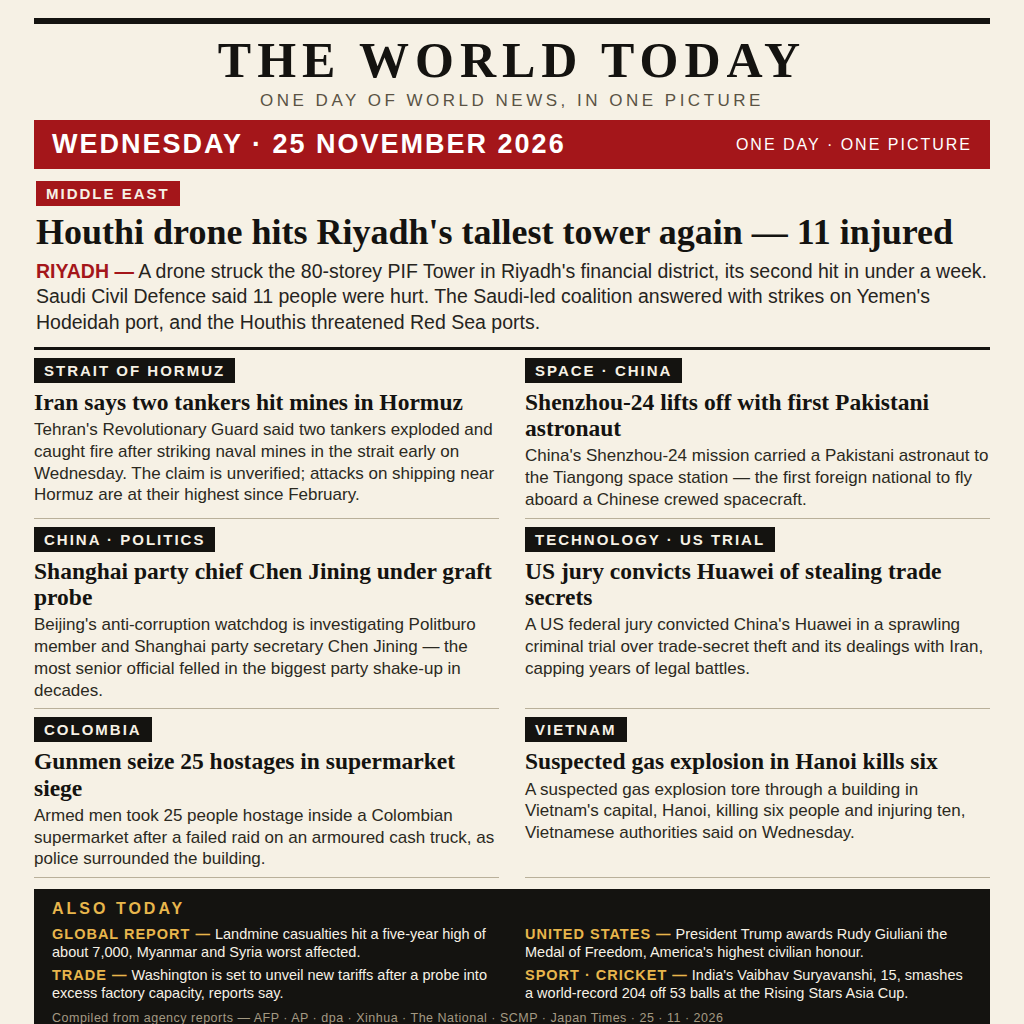
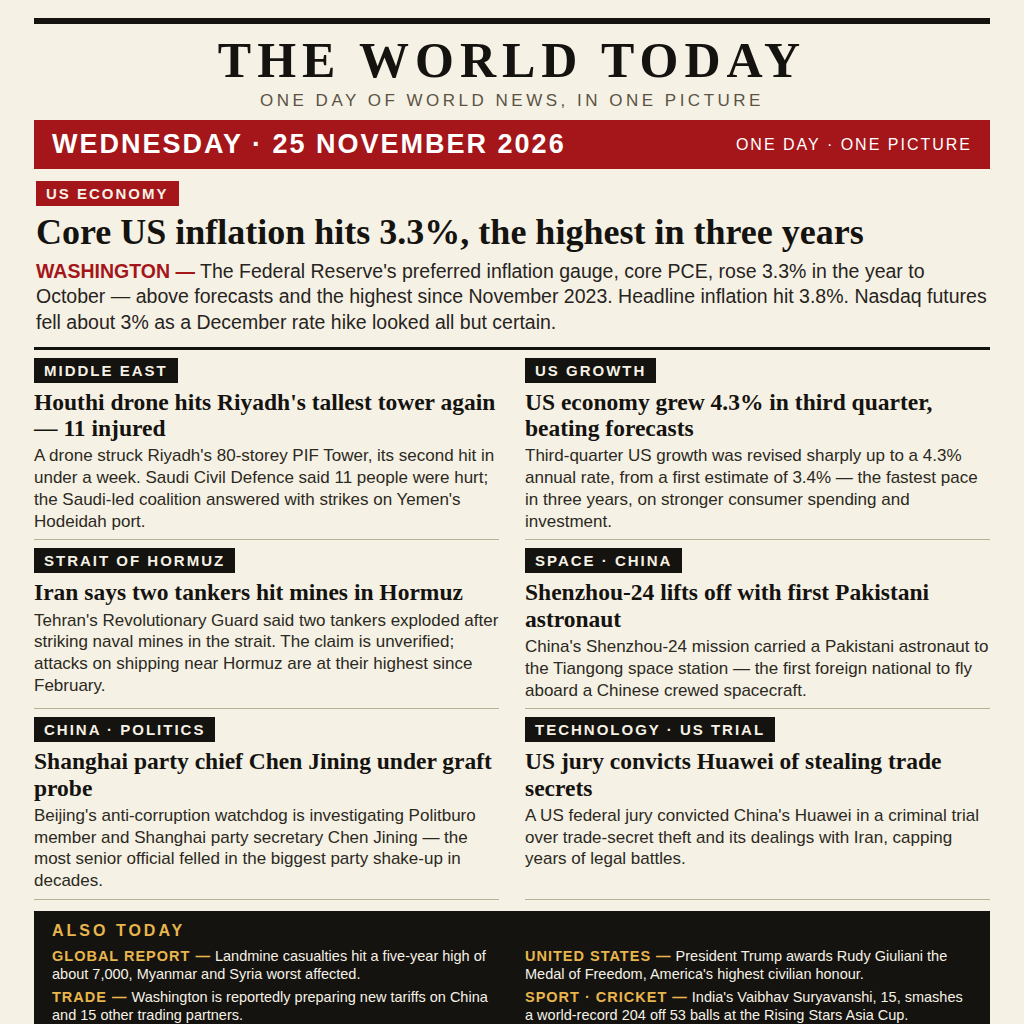
Refresh 25 Nov edition with post-PCE news: core PCE 3.3% YoY lead with market reaction, add Q3 GDP revised to 4.3% card, demote Riyadh strike to card, sharpen tariffs brief; drop Colombia/Hanoi cards

Changed region(s): [[0.0312, 0.1875, 0.9688, 1.0]]

diff --git a/page.html b/page.html
@@ -38,10 +38,10 @@ body { width:1024px; height:1024px; overflow:hidden; background:#f6f1e5;
     <div class="tagline">One day of world news, in one picture</div></div>
   <div class="dateband"><div class="date">WEDNESDAY · 25 NOVEMBER 2026</div>
     <div class="side">One day · One picture</div></div>
-  <div class="lead"><span class="chip red">MIDDLE EAST</span>
-    <h2>Houthi drone hits Riyadh's tallest tower again — 11 injured</h2>
-    <p><span class="place">RIYADH —</span> A drone struck the 80-storey PIF Tower in Riyadh's financial district, its second hit in under a week. Saudi Civil Defence said 11 people were hurt. The Saudi-led coalition answered with strikes on Yemen's Hodeidah port, and the Houthis threatened Red Sea ports.</p></div>
-  <div class="grid"><div class="card"><span class="chip">STRAIT OF HORMUZ</span><h3>Iran says two tankers hit mines in Hormuz</h3><p>Tehran's Revolutionary Guard said two tankers exploded and caught fire after striking naval mines in the strait early on Wednesday. The claim is unverified; attacks on shipping near Hormuz are at their highest since February.</p></div><div class="card"><span class="chip">SPACE · CHINA</span><h3>Shenzhou-24 lifts off with first Pakistani astronaut</h3><p>China's Shenzhou-24 mission carried a Pakistani astronaut to the Tiangong space station — the first foreign national to fly aboard a Chinese crewed spacecraft.</p></div><div class="card"><span class="chip">CHINA · POLITICS</span><h3>Shanghai party chief Chen Jining under graft probe</h3><p>Beijing's anti-corruption watchdog is investigating Politburo member and Shanghai party secretary Chen Jining — the most senior official felled in the biggest party shake-up in decades.</p></div><div class="card"><span class="chip">TECHNOLOGY · US TRIAL</span><h3>US jury convicts Huawei of stealing trade secrets</h3><p>A US federal jury convicted China's Huawei in a sprawling criminal trial over trade-secret theft and its dealings with Iran, capping years of legal battles.</p></div><div class="card"><span class="chip">COLOMBIA</span><h3>Gunmen seize 25 hostages in supermarket siege</h3><p>Armed men took 25 people hostage inside a Colombian supermarket after a failed raid on an armoured cash truck, as police surrounded the building.</p></div><div class="card"><span class="chip">VIETNAM</span><h3>Suspected gas explosion in Hanoi kills six</h3><p>A suspected gas explosion tore through a building in Vietnam's capital, Hanoi, killing six people and injuring ten, Vietnamese authorities said on Wednesday.</p></div></div>
-  <div class="briefs"><h4>ALSO TODAY</h4><div class="bgrid"><div class="brief"><b>GLOBAL REPORT —</b> Landmine casualties hit a five-year high of about 7,000, Myanmar and Syria worst affected.</div><div class="brief"><b>UNITED STATES —</b> President Trump awards Rudy Giuliani the Medal of Freedom, America's highest civilian honour.</div><div class="brief"><b>TRADE —</b> Washington is set to unveil new tariffs after a probe into excess factory capacity, reports say.</div><div class="brief"><b>SPORT · CRICKET —</b> India's Vaibhav Suryavanshi, 15, smashes a world-record 204 off 53 balls at the Rising Stars Asia Cup.</div></div><div class="src">Compiled from agency reports — AFP · AP · dpa · Xinhua · The National · SCMP · Japan Times · 25 · 11 · 2026</div></div>
+  <div class="lead"><span class="chip red">US ECONOMY</span>
+    <h2>Core US inflation hits 3.3%, the highest in three years</h2>
+    <p><span class="place">WASHINGTON —</span> The Federal Reserve's preferred inflation gauge, core PCE, rose 3.3% in the year to October — above forecasts and the highest since November 2023. Headline inflation hit 3.8%. Nasdaq futures fell about 3% as a December rate hike looked all but certain.</p></div>
+  <div class="grid"><div class="card"><span class="chip">MIDDLE EAST</span><h3>Houthi drone hits Riyadh's tallest tower again — 11 injured</h3><p>A drone struck Riyadh's 80-storey PIF Tower, its second hit in under a week. Saudi Civil Defence said 11 people were hurt; the Saudi-led coalition answered with strikes on Yemen's Hodeidah port.</p></div><div class="card"><span class="chip">US GROWTH</span><h3>US economy grew 4.3% in third quarter, beating forecasts</h3><p>Third-quarter US growth was revised sharply up to a 4.3% annual rate, from a first estimate of 3.4% — the fastest pace in three years, on stronger consumer spending and investment.</p></div><div class="card"><span class="chip">STRAIT OF HORMUZ</span><h3>Iran says two tankers hit mines in Hormuz</h3><p>Tehran's Revolutionary Guard said two tankers exploded after striking naval mines in the strait. The claim is unverified; attacks on shipping near Hormuz are at their highest since February.</p></div><div class="card"><span class="chip">SPACE · CHINA</span><h3>Shenzhou-24 lifts off with first Pakistani astronaut</h3><p>China's Shenzhou-24 mission carried a Pakistani astronaut to the Tiangong space station — the first foreign national to fly aboard a Chinese crewed spacecraft.</p></div><div class="card"><span class="chip">CHINA · POLITICS</span><h3>Shanghai party chief Chen Jining under graft probe</h3><p>Beijing's anti-corruption watchdog is investigating Politburo member and Shanghai party secretary Chen Jining — the most senior official felled in the biggest party shake-up in decades.</p></div><div class="card"><span class="chip">TECHNOLOGY · US TRIAL</span><h3>US jury convicts Huawei of stealing trade secrets</h3><p>A US federal jury convicted China's Huawei in a criminal trial over trade-secret theft and its dealings with Iran, capping years of legal battles.</p></div></div>
+  <div class="briefs"><h4>ALSO TODAY</h4><div class="bgrid"><div class="brief"><b>GLOBAL REPORT —</b> Landmine casualties hit a five-year high of about 7,000, Myanmar and Syria worst affected.</div><div class="brief"><b>UNITED STATES —</b> President Trump awards Rudy Giuliani the Medal of Freedom, America's highest civilian honour.</div><div class="brief"><b>TRADE —</b> Washington is reportedly preparing new tariffs on China and 15 other trading partners.</div><div class="brief"><b>SPORT · CRICKET —</b> India's Vaibhav Suryavanshi, 15, smashes a world-record 204 off 53 balls at the Rising Stars Asia Cup.</div></div><div class="src">Compiled from agency reports — AFP · AP · Reuters · US BEA · The National · SCMP · Japan Times · 25 · 11 · 2026</div></div>
   
 </div></body></html>
